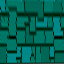
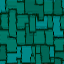
feat: Improve dungeon ground texture

diff --git a/src/3d/Ground.js b/src/3d/Ground.js
@@ -6,7 +6,8 @@ import { useSpring, animated, a } from 'react-spring'
 
 import floorImg from '../assets/images/textures/yellow_floor.png'
 // import dungeonFloorImg from '../assets/images/textures/stone_floor.png'
-import dungeonFloorImg from '../assets/images/levels1/dungeon_floor.png'
+// import dungeonFloorImg from '../assets/images/levels1/dungeon_floor.png'
+import dungeonFloorImg from '../assets/images/levels1/dungeon_floor2.png'
 
 const loader = new THREE.TextureLoader()
 function loadTexture(img) {
@@ -20,8 +21,9 @@ function loadTexture2(img) {
   const texture = loader.load(img)
   texture.wrapS = THREE.RepeatWrapping
   texture.wrapT = THREE.RepeatWrapping
-  // texture.repeat.set(4*1000, 4*1000)
-  texture.repeat.set(4*1000, 4*1000)
+  const n = 2
+  texture.repeat.set(n * 1000, n * 1000)
+  texture.minFilter = THREE.LinearFilter
   return texture
 }
 
